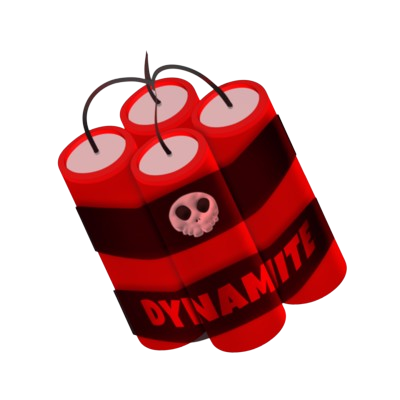
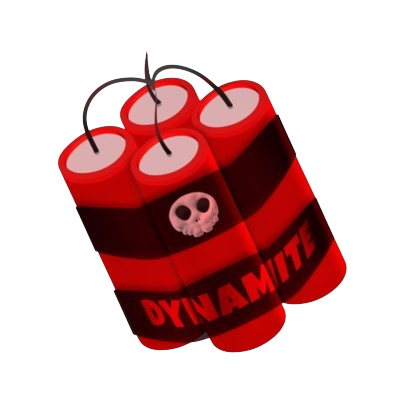
Fixing performance and added fixed pngs
removed backgrounds on pngs and removes cout statements as they where really lagging the game

diff --git a/The-Last-Pearl/code/Hud.cpp b/The-Last-Pearl/code/Hud.cpp
@@ -48,42 +48,19 @@ Hud::Hud(Player& player)
 	///needs to not be here due to error with read access voilations
 	//by John
 	// Load the font - John
-	//if (!chracterlook.loadFromFile("fonts/2font.ttf"))
-	///{
-	//	std::cout<<"I hate fonts ";
-	//	return;
-	//}
-	//else
-	//{
-	//	std::cout << "wow we have a font";
-	//}
 	
-	/*/if (thePlayer != nullptr) {
-		Playermoney_HealthText.setFont(font);
-		Playermoney_HealthText.setCharacterSize(15);
-		//std::cout << "test 1 " << thePlayer->money;
-		//std::cout << "test 2 " << thePlayer->health;
-		//std::stringstream ss;
-		//ss << "Money = " << player.money;
-		//std::string Money = ss.str();// " Pearl Health " + std::to_string(thePlayer->health) + "\\" + std::to_string(thePlayer->MaxHp));
-		Playermoney_HealthText.setString("Money = ");
-		Playermoney_HealthText.setFillColor(Color::Black);
-		Playermoney_HealthText.setPosition(1000, 200);
-	}*/
-
 
 }
 void Hud::draw(RenderWindow& window)
 {
 	// Draw the tower icons
-	////////window.draw(HealthText);
 	window.draw(spriteBuildMenuBackground);
 	window.draw(spriteMusketTowerIcon);
 	window.draw(spriteCannonTowerIcon);
 	window.draw(spriteMortarTowerIcon);
 	window.draw(spriteCrossbowTowerIcon);
 	window.draw(spriteGoldIcon);
-	//std::cout << "drawing the thing";
+	
 		
 	
 }

diff --git a/The-Last-Pearl/code/Wave.cpp b/The-Last-Pearl/code/Wave.cpp
@@ -27,7 +27,6 @@ Wave::Wave(int waveNumber)
 		enemies.insert(enemies.end(), waveNumber, CAPTAIN);
 	}
 	CurrentWave = waveNumber;
-	//std::cout << "Enemy size= " << enemies.size();
 }
 
 void Wave::NextWave()
@@ -50,13 +49,11 @@ void Wave::NextWave()
 		enemies.insert(enemies.end(), CurrentWave * 2, PIRATE);
 		enemies.insert(enemies.end(), CurrentWave, CAPTAIN);
 	}
-	//std::cout << "Enemy size= " << enemies.size();
 
 }
 
 void Wave::initializeEnemies(float dtAsSeconds) {
 	elapsedTime += dtAsSeconds;
-	std::cout << "Active enemies count: " << activeEnemies.size() << std::endl;
 	if (isWaveComplete())
 	{
 		//NextWave();
@@ -82,8 +79,6 @@ void Wave::initializeEnemies(float dtAsSeconds) {
 		if (enemy) {
 			enemy->spawn(40, 200, 0); // Default spawn position 
 			activeEnemies.push_back(std::move(enemy)); // Move the enemy into the vector
-			//cout << "Spawned enemy of type: " << type << endl; // Debugg
-			//cout << "Total active enemies: " << activeEnemies.size() << endl; // Debug
 
 			enemies.pop_back(); // Remove the spawned enemy from the list
 		}

diff --git a/The-Last-Pearl/code/Update.cpp b/The-Last-Pearl/code/Update.cpp
@@ -35,7 +35,6 @@ void TheLastPearl::update()
 		TheGameTowers.update(dtAsSeconds, currentWave.getActiveEnemies(), projectileHolder);
 
 		auto activeEnemies = currentWave.getActiveEnemies();
-		//std::cout << "Active enemies count in update: " << activeEnemies.size() << std::endl;
 
 		for (auto& projectile : projectileHolder.getProjectiles())
 		{
@@ -47,16 +46,14 @@ void TheLastPearl::update()
 
 					if (projectile.getSprite().getGlobalBounds().intersects(enemy->getSprite().getGlobalBounds()))
 					{
-						std::cout << "Collision detected!" << std::endl;
+						
 
 						// Log the damage dealt and remaining health of the enemy
 						float damage = projectile.getDamage();
 						bool enemyDied = enemy->hit(damage);
-						std::cout << "Enemy took " << damage << " damage. " << "Remaining health: " << enemy->getHealth() << std::endl;
-
+						
 						if (enemyDied)
 						{
-							std::cout << "Enemy defeated and removed from active list." << std::endl;
 							it = activeEnemies.erase(it);
 						}
 						else

diff --git a/The-Last-Pearl/code/Bullet.cpp b/The-Last-Pearl/code/Bullet.cpp
@@ -14,13 +14,13 @@ Bullet::Bullet(sf::Vector2f position, sf::Vector2f target, float speed) : speed(
 
 void Bullet::update(float deltaTime) {
     shape.move(velocity * deltaTime);
-   // std::cout << "Bullet at position (" << shape.getPosition().x << ", " << shape.getPosition().y << ")";
+   
 }
 
 bool Bullet::checkCollision(const sf::FloatRect& enemyBounds) const {
     bool collision = shape.getGlobalBounds().intersects(enemyBounds);
     if (collision) {
-       // std::cout << "Bullet collided with enemy!";
+       
     }
     return collision;
 }

diff --git a/The-Last-Pearl/code/LevelManager.cpp b/The-Last-Pearl/code/LevelManager.cpp
@@ -68,8 +68,7 @@ void LevelManager::SetLevel(int LevelNumber)
     //this is done since the towers will be restarted
     towerIndex = 0;
 
-    //std::cout << "hey " << ScreenxWidth << " / " << m_LevelSize.x << " = " << Tile_SizeX << " \n";
-    //::cout << "hey " << ScreenYHeight << " / " << m_LevelSize.y << " = " << Tile_SizeY << " \n";
+    
     
     // Start at the beginning of the vertex array
     int currentVertex = 0;

diff --git a/The-Last-Pearl/code/ProjectileHolder.cpp b/The-Last-Pearl/code/ProjectileHolder.cpp
@@ -46,9 +46,7 @@ void ProjectileHolder::clearInactive()
 		[](const Projectile& bullet) { return !bullet.isActive(); }),
 		bullets.end());
 
-	// Debug output to show number of projectiles cleared
-	//std::cout << "Inactive projectiles cleared. Initial count: " << initialSize
-	//	<< ", New count: " << bullets.size() << "\n";
+
 }
 
 std::vector<Projectile>& ProjectileHolder::getProjectiles() 

diff --git a/The-Last-Pearl/code/Draw.cpp b/The-Last-Pearl/code/Draw.cpp
@@ -25,14 +25,11 @@ void TheLastPearl::draw()
 
 		// Draw towers and projectiles via TowerManager
 		TheGameTowers.draw(window, projectileHolder);
-		//std::cout << "Projectiles drawn via TowerManager and ProjectileHolder\n";
 
 
 		PlayerHud.draw(window);
 		window.draw(HealthText);
-		// Draw the cursor
-		
-	//	window.draw(projectile.getSprite());
+	
 	}
 
 	if (state == State::PAUSED) {

diff --git a/The-Last-Pearl/code/TowerManager.cpp b/The-Last-Pearl/code/TowerManager.cpp
@@ -15,7 +15,6 @@ void TowerManager::update(float seconds, const std::vector<Enemy*>& enemies, Pro
 		tower.update(seconds, enemies, projectileHolder);
 	}
 	projectileHolder.update(seconds);  // Ensure projectiles are updated
-	//std::cout << "ProjectileHolder updated with current projectiles\n";
 }
 
 void TowerManager::draw(sf::RenderWindow& window, ProjectileHolder& projectileHolder) 

diff --git a/The-Last-Pearl/code/MainMenu.cpp b/The-Last-Pearl/code/MainMenu.cpp
@@ -61,7 +61,7 @@ void TheLastPearl::MainMenu()
 
 void TheLastPearl::StartLevel(int level)
 {
-	std::cout << level;
+	
 	textureBackground.loadFromFile("graphics/background.png");
 	spriteBackground.setTexture(textureBackground);
 	spriteBackground.setPosition(0, 0);

diff --git a/The-Last-Pearl/code/Projectile.cpp b/The-Last-Pearl/code/Projectile.cpp
@@ -72,7 +72,6 @@ bool Projectile::checkCollision(const sf::FloatRect& enemyBounds)
 void Projectile::setInactive()
 {
     m_Active = false;
-  //  std::cout << "Projectile set to inactive.\n";
 }
 
 // Return true if the projectile is active

diff --git a/The-Last-Pearl/code/Player.cpp b/The-Last-Pearl/code/Player.cpp
@@ -17,7 +17,6 @@ bool Player::CanBuy(int cost)
 	if (cost < money)
 	{
 		money -= cost;
-	//	std::cout << "\n Current money= " << money<<" Current cost= "<<cost;
 		return true;
 	}
 	else 
